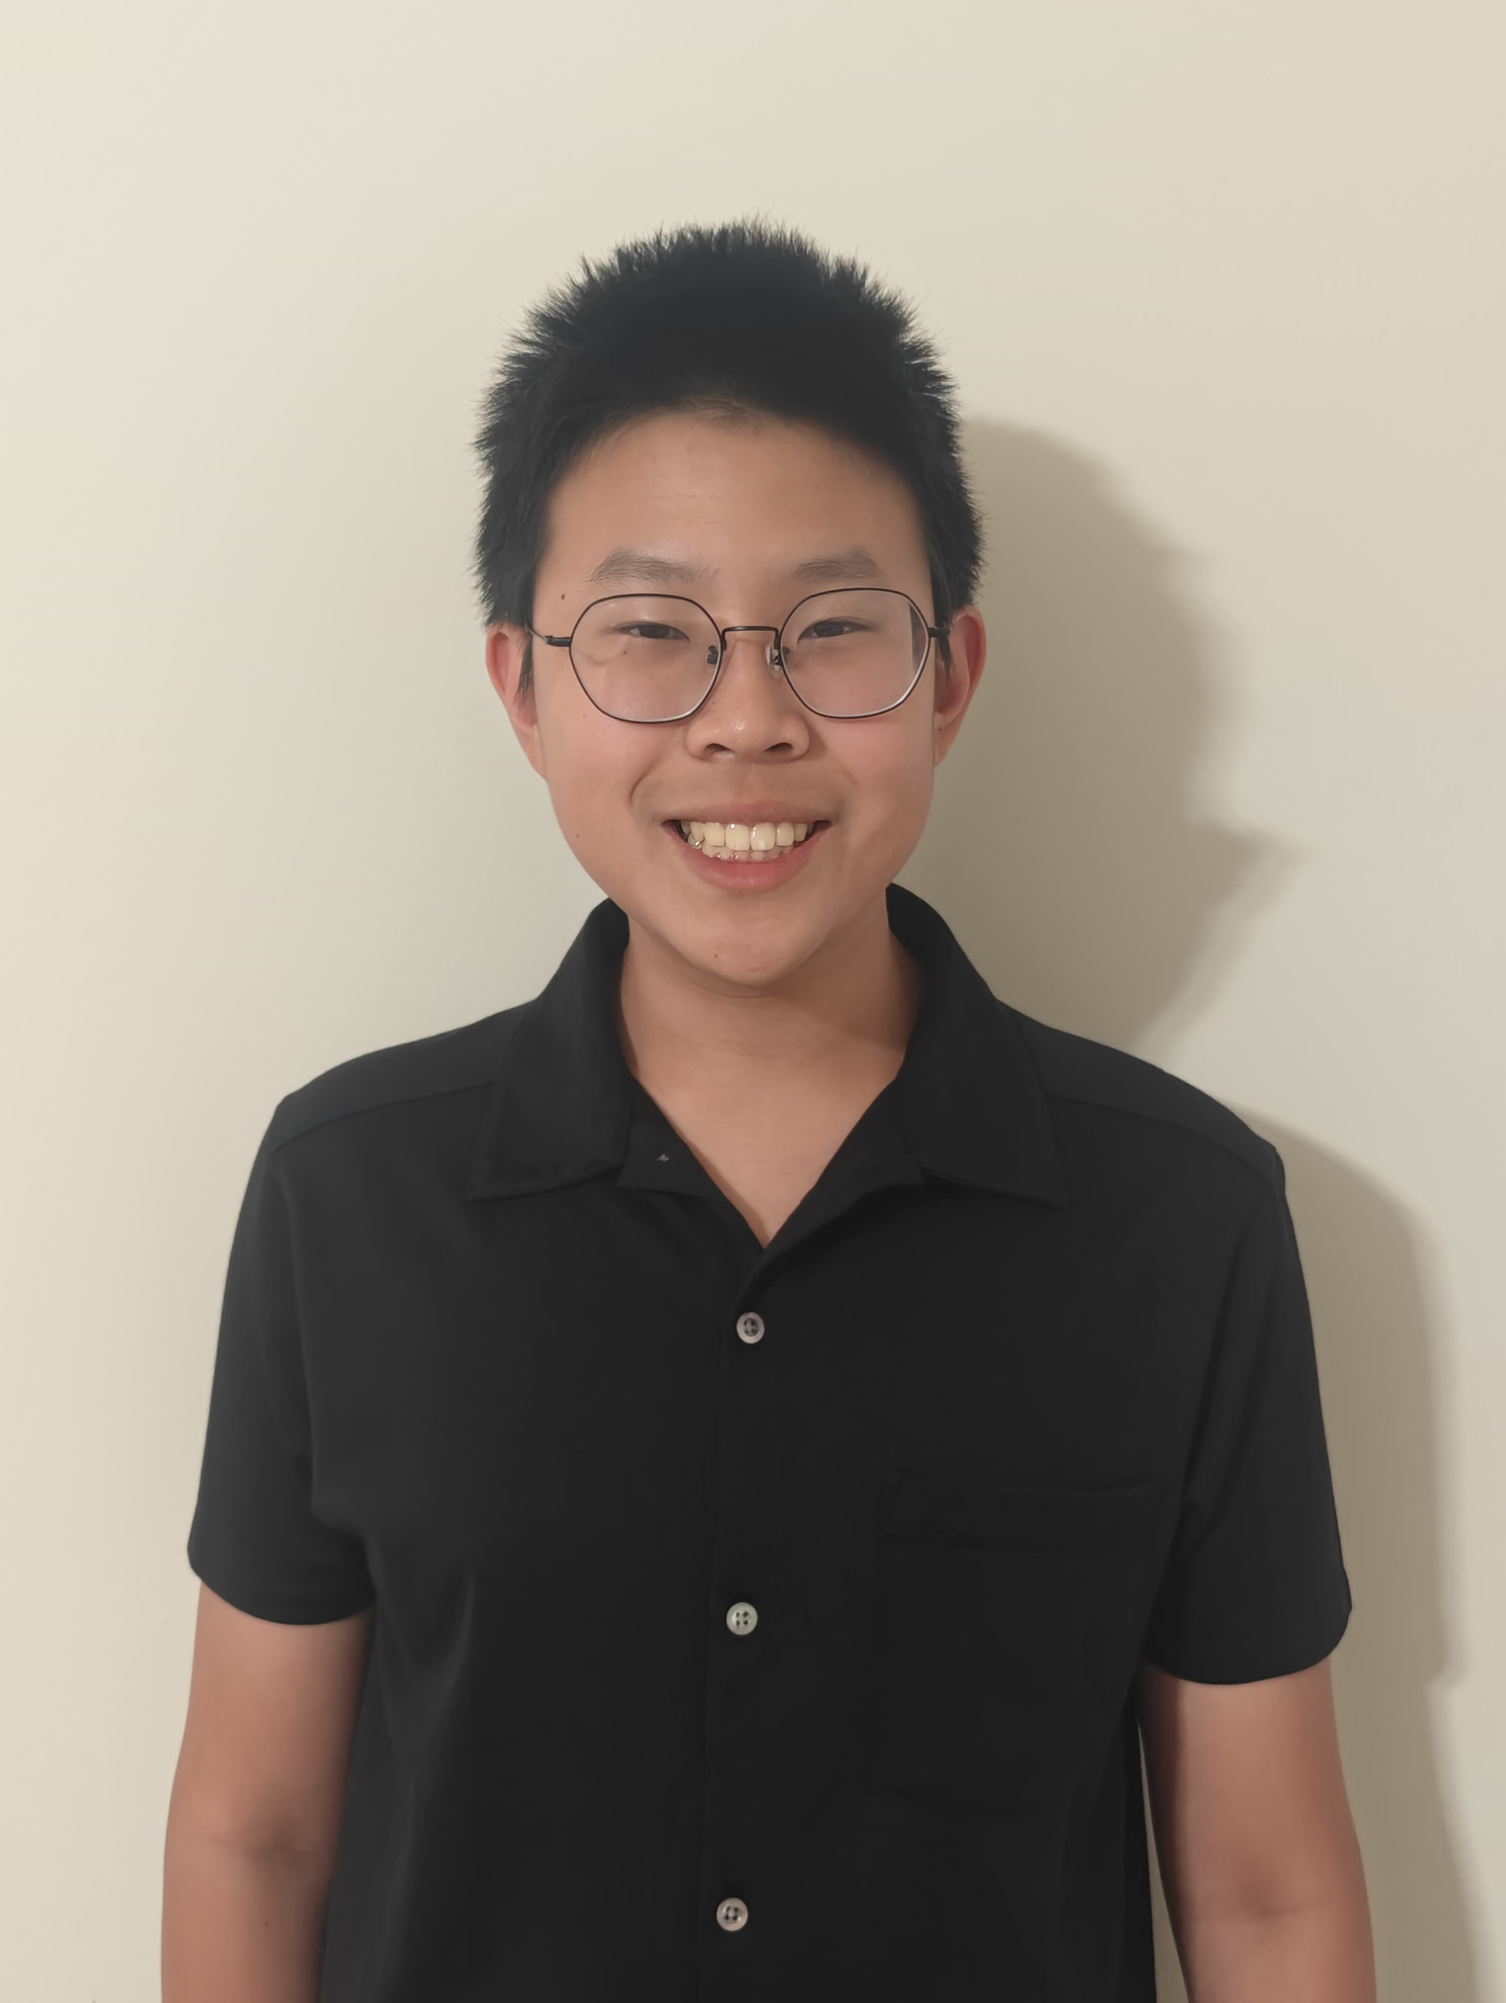
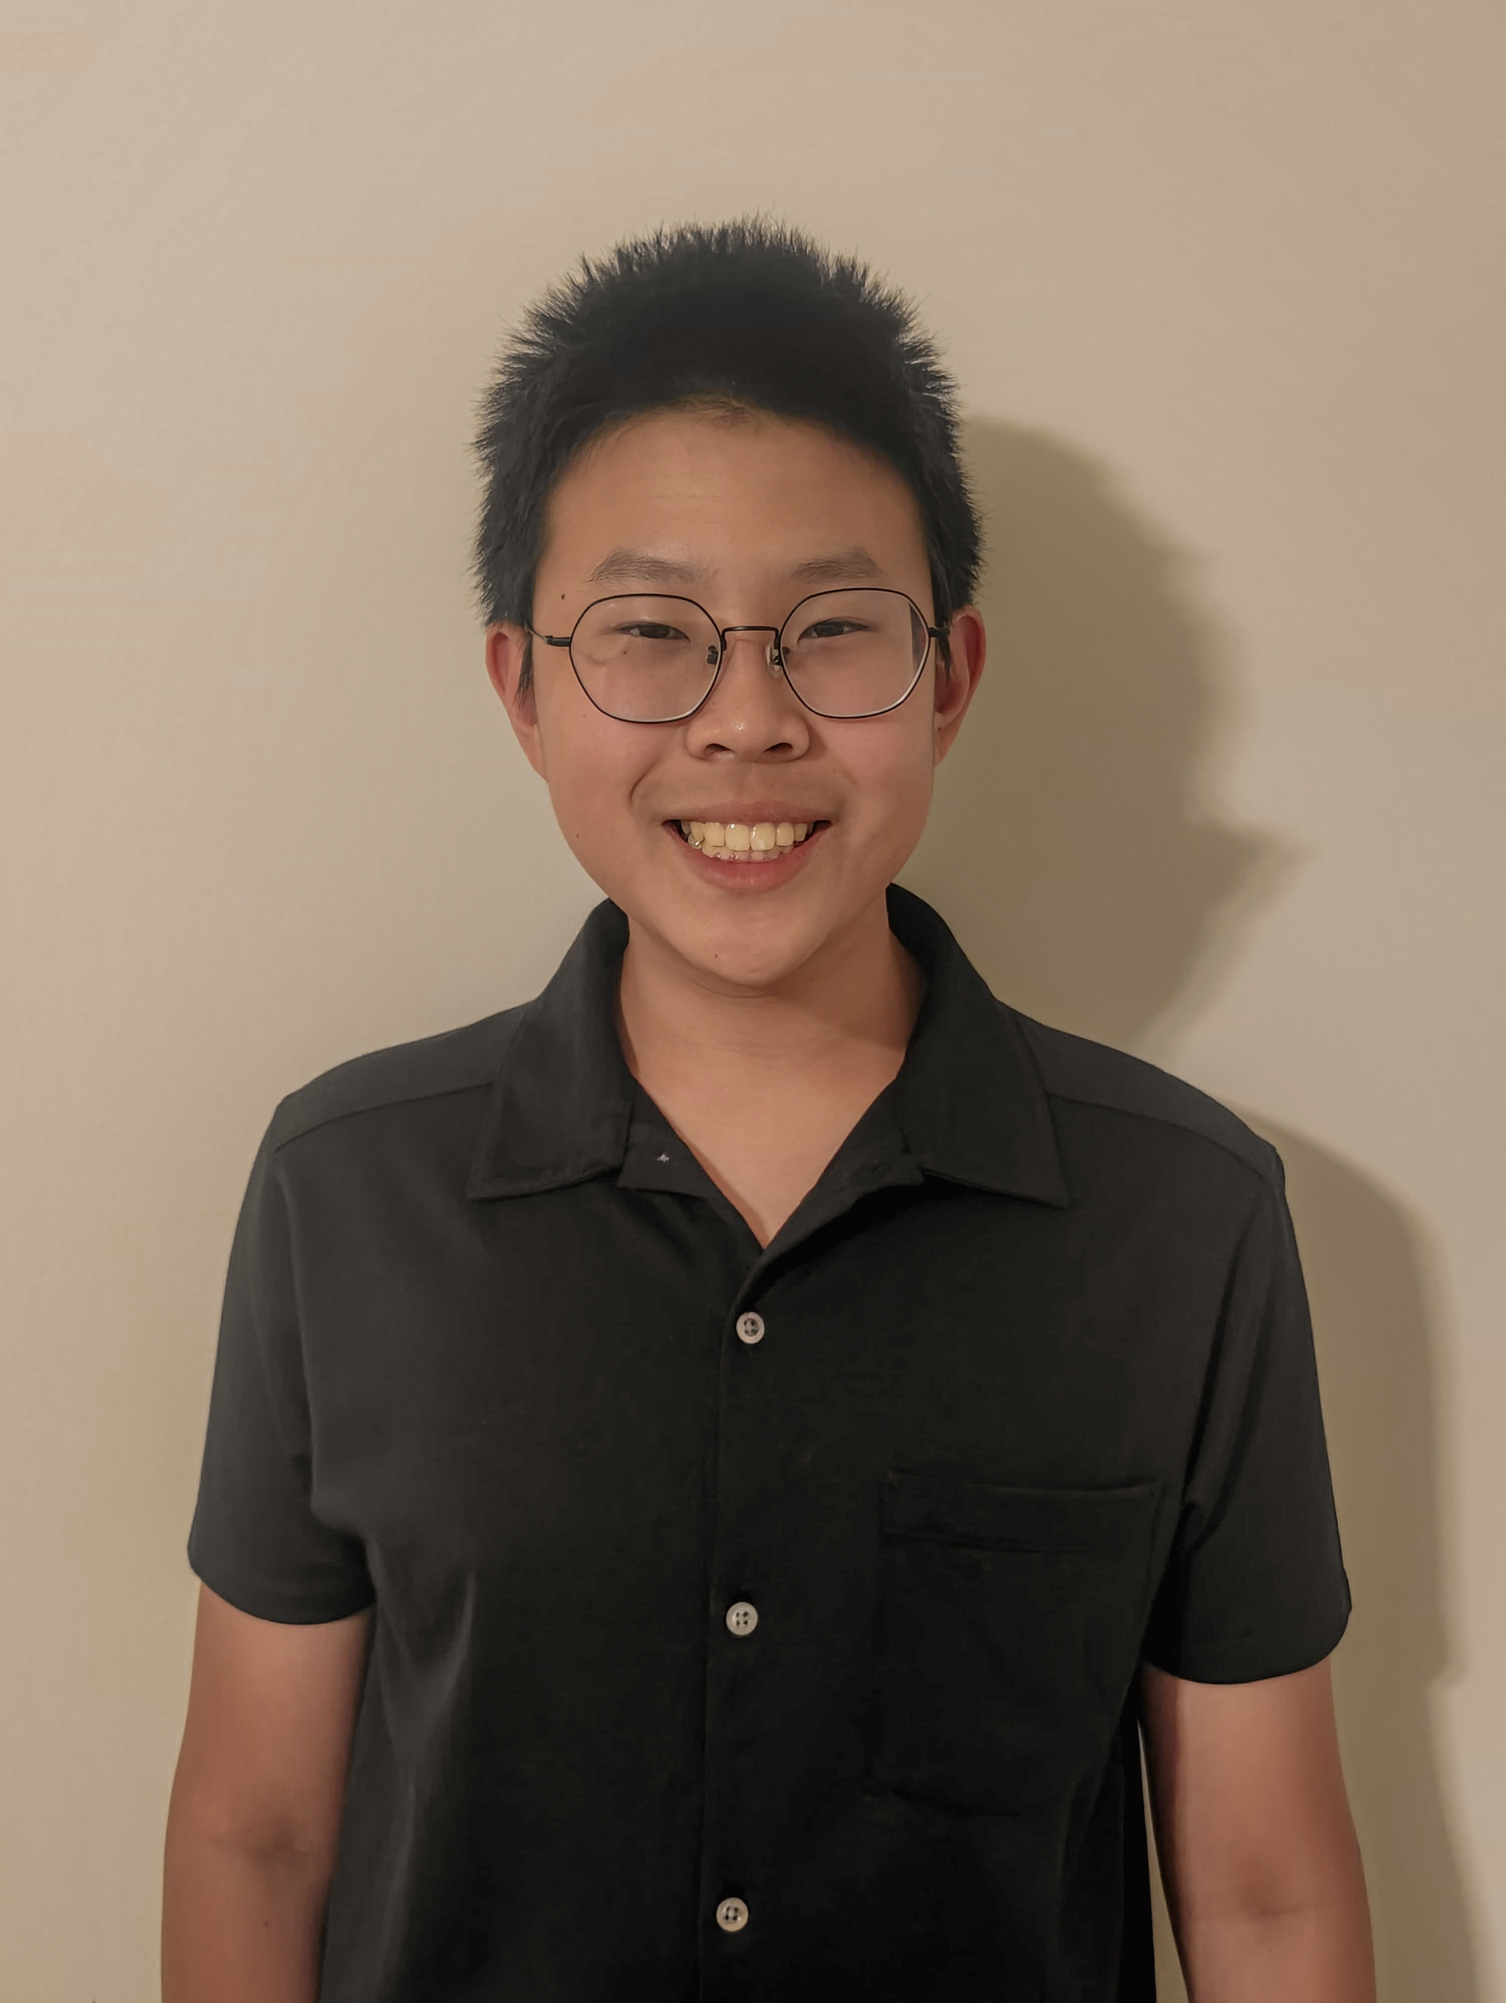
Team Member Picture update + Blog updates

diff --git a/script.js b/script.js
@@ -1,27 +1,30 @@
 // script.js (project root)
 
 // IIFE wrapper
-(function(){
-  function getScriptUrl(){
+(function () {
+  function getScriptUrl() {
     const scripts = document.getElementsByTagName('script');
-    const thisScript = document.currentScript || Array.from(scripts).find(s => (s.src || '').includes('script.js'));
-    if(!thisScript || !thisScript.src) return null;
+    const thisScript =
+      document.currentScript ||
+      Array.from(scripts).find((s) => (s.src || '').includes('script.js'));
+    if (!thisScript || !thisScript.src) return null;
     return new URL(thisScript.src);
   }
 
-  function resolveFromRoot(relPath){
+  function resolveFromRoot(relPath) {
     const scriptUrl = getScriptUrl();
-    if(!scriptUrl) return relPath;
+    if (!scriptUrl) return relPath;
     const baseDir = new URL('.', scriptUrl);
-    return new URL(relPath, baseDir).pathname;
+    // Use .href so it also works under subpaths (e.g., GitHub Pages)
+    return new URL(relPath, baseDir).href;
   }
 
-  async function injectNavbar(){
+  async function injectNavbar() {
     const placeholder = document.getElementById('navbar-placeholder');
-    if(!placeholder) return;
+    if (!placeholder) return;
 
     const scriptUrl = getScriptUrl();
-    if(!scriptUrl){
+    if (!scriptUrl) {
       console.error('script.js: could not determine script URL');
       return;
     }
@@ -30,23 +33,24 @@
 
     try {
       const res = await fetch(navbarUrl.href, { cache: 'no-cache' });
-      if(!res.ok) throw new Error(`Failed to load navbar: ${res.status} ${res.statusText}`);
+      if (!res.ok)
+        throw new Error(`Failed to load navbar: ${res.status} ${res.statusText}`);
       const html = await res.text();
       placeholder.innerHTML = html;
 
       // Rewrite relative URLs inside injected navbar so it works in subfolders
       const baseDir = new URL('.', scriptUrl);
-      placeholder.querySelectorAll('[href^="./"]').forEach(el => {
+      placeholder.querySelectorAll('[href^="./"]').forEach((el) => {
         const rel = el.getAttribute('href').replace(/^\.\//, '');
         el.setAttribute('href', new URL(rel, baseDir).href);
       });
-      placeholder.querySelectorAll('[src^="./"]').forEach(el => {
+      placeholder.querySelectorAll('[src^="./"]').forEach((el) => {
         const rel = el.getAttribute('src').replace(/^\.\//, '');
         el.setAttribute('src', new URL(rel, baseDir).href);
       });
 
       // Expose toggleMenu globally (inline onclick relies on this)
-      window.toggleMenu = function(){
+      window.toggleMenu = function () {
         const menu = placeholder.querySelector('.nav-menu');
         const burger = placeholder.querySelector('.menu-toggle');
         if (!menu) return;
@@ -61,22 +65,22 @@
 
       // Mobile dropdown tap support (in addition to desktop hover)
       enableMobileDropdown(placeholder);
-
-    } catch (err){
+    } catch (err) {
       console.error('Navbar injection error:', err);
     }
   }
 
-  function enableMobileDropdown(scope){
+  function enableMobileDropdown(scope) {
     const mm = window.matchMedia('(max-width: 768px)');
     const dropdowns = scope.querySelectorAll('.dropdown');
 
-    dropdowns.forEach(dropdown => {
+    dropdowns.forEach((dropdown) => {
       const trigger = dropdown.querySelector(':scope > a');
       if (!trigger) return;
 
       // Prevent duplicate handlers when reinjecting
-      trigger._fbnfBound && trigger.removeEventListener('click', trigger._fbnfHandler);
+      trigger._fbnfBound &&
+        trigger.removeEventListener('click', trigger._fbnfHandler);
 
       const handler = (e) => {
         if (mm.matches) {
@@ -91,29 +95,100 @@
     });
   }
 
-  async function loadCarousel(){
+  // ---- Blog "stack" carousel rotation (ONLY for #updates) ----
+  function startStackCarousel(container) {
+    if (!container) return;
+
+    // Avoid duplicate timers if this is called multiple times
+    if (container._carouselTimer) {
+      clearInterval(container._carouselTimer);
+      container._carouselTimer = null;
+    }
+
+    const mmMobile = window.matchMedia('(max-width: 768px)');
+    let paused = false;
+
+    // Optional: pause on hover (desktop)
+    container.addEventListener('mouseenter', () => (paused = true));
+    container.addEventListener('mouseleave', () => (paused = false));
+
+    const rotateOnce = () => {
+      // Do not rotate on mobile layout (where cards are listed vertically)
+      if (mmMobile.matches || paused) return;
+
+      const cards = container.querySelectorAll(':scope > .latest-card');
+      if (cards.length < 2) return;
+
+      const first = cards[0];
+      // fade out the top card, then move it to the end
+      first.classList.add('fade-out');
+
+      // Match this timeout to your .fade-out { transition: 0.3s }
+      setTimeout(() => {
+        first.classList.remove('fade-out');
+        container.appendChild(first); // nth-child() CSS restacks automatically
+      }, 300);
+    };
+
+    container._carouselTimer = setInterval(rotateOnce, 3000);
+
+    // Optional: pause when the tab is hidden to save CPU
+    const visHandler = () => {
+      if (document.hidden) {
+        paused = true;
+      } else {
+        paused = false;
+      }
+    };
+    document.addEventListener('visibilitychange', visHandler, { passive: true });
+
+    // Store cleanup if you ever need it
+    container._cleanupCarousel = () => {
+      clearInterval(container._carouselTimer);
+      document.removeEventListener('visibilitychange', visHandler);
+    };
+  }
+
+  async function loadCarousel() {
     const container = document.getElementById('updates');
-    if(!container) return;
-    try{
+    if (!container) return;
+    try {
       const feedUrl = resolveFromRoot('updates.json');
       const res = await fetch(feedUrl, { cache: 'no-cache' });
-      if(!res.ok) throw new Error(`Failed to load updates.json: ${res.status} ${res.statusText}`);
+      if (!res.ok)
+        throw new Error(
+          `Failed to load updates.json: ${res.status} ${res.statusText}`
+        );
       const items = await res.json();
-      const html = (items || []).map(item => {
-        const link = resolveFromRoot(item.link);
-        const img  = resolveFromRoot(item.image);
-        const title = item.title || '';
-        const date = item.date || '';
-        return `
-          <a href="${link}" class="latest-card">
-            <img src="${img}" alt="${title}" />
-            <div class="card-caption">${date} – ${title}</div>
-          </a>
-        `;
-      }).join('');
+
+      // If you want newest-first limited to 3, uncomment:
+      // const list = (items || [])
+      //   .slice()
+      //   .sort((a, b) => new Date(b.date) - new Date(a.date))
+      //   .slice(0, 3);
+
+      const list = items || [];
+      const html = list
+        .map((item) => {
+          const link = resolveFromRoot(item.link);
+          const img = resolveFromRoot(item.image);
+          const title = item.title || '';
+          const date = item.date || '';
+          return `
+            <a href="${link}" class="latest-card">
+              <img src="${img}" alt="${title}" />
+              <div class="card-caption">${date} – ${title}</div>
+            </a>
+          `;
+        })
+        .join('');
       container.innerHTML = html || '<div style="opacity:.7">No updates yet.</div>';
-    } catch(err){
+    } catch (err) {
       console.error('Carousel load error:', err);
+      // Keep whatever static fallback is already in the HTML
+    } finally {
+      // Start rotation whether JSON succeeded or we’re using the fallback
+      startStackCarousel(container);
     }
   }
 

diff --git a/updates/Engineering_Day.html b/updates/Engineering_Day.html
@@ -17,15 +17,6 @@
         <!-- Back Button -->
         <!-- You can customize the link below if your updates section is located elsewhere -->
         <div style="margin-bottom: 1rem;">
-          <a href="../index.html#updates" class="back-link" style="
-            display: inline-block;
-            padding: 0.4rem 0.8rem;
-            border: 1px solid #ccc;
-            border-radius: 4px;
-            font-size: 0.9rem;
-            color: black;
-            text-decoration: none;
-          ">← Back to updates</a>
         </div>
 
         <!-- Blog Title -->
@@ -39,7 +30,7 @@
         <!-- TODO: Replace 'Coach Name | Month Day, Year' with the actual author name and publication date -->
         <div style="text-align: center; margin-top: 0.5rem; display: flex; align-items: center; justify-content: center; gap: 0.5rem;">
           <img src="../Images/Headshots/Coach_Sidd.jpg" alt="Author" style="width: 36px; height: 36px; border-radius: 50%; object-fit: cover;">
-          <span style="font-size: 1rem; color: #444;">Coach Kimng | Feb 16, 2025</span>
+          <span style="font-size: 1rem; color: #444;"> | Feb 16, 2025</span>
         </div>
 
         <!-- Spacer -->
@@ -48,7 +39,9 @@
         <!-- Summary -->
         <!-- TODO: Write a concise summary of your blog post here to engage readers -->
         <p class="hero-subtext" style="text-align: center;">
-          Write a short summary of the blog post here. This is the first thing readers will see.
+          On February 16, 2025, our team had the chance to participate in Engineering Day at the Peoria Riverfront Museum. The annual event brings together 
+          engineering companies, local organizations, and student groups to showcase what they’re working on and to inspire kids and families to explore STEM.<br>
+          As one of the demonstrators, Team F.B.N.F. was proud to bring our FTC robot to the floor, letting visitors take control, ask questions, and learn firsthand what FIRST robotics is all about.
         </p>
       </div>
 
@@ -63,10 +56,12 @@
   <!-- TODO: Replace the placeholder paragraphs below with the full content of your blog post -->
   <section style="max-width: 700px; margin: 2rem auto; font-size: 1rem; line-height: 1.6;">
     <p>
-      Start writing your blog post content here. You can break it into multiple paragraphs like this.
-    </p>
-    <p>
-      Add as much detail as you like. This section supports normal HTML text formatting.
+      We brought our 2024–2025 Into the Deep robot and set up a space where visitors could see it up close and even take the controls. Throughout the day, people of all ages had the chance to drive the 
+      robot while we explained the different mechanisms and systems that make it work. It was a great way to introduce the community to robotics and to share what FIRST is all about.<br>
+
+      Beyond just driving the robot, we talked with families about how FTC competitions are structured. We explained how teams design, build, and program their robots, and how matches include both autonomous 
+      and driver-controlled periods. Many parents were interested in getting their kids involved, which gave us the chance to talk about the different levels of FIRST — from LEGO League (FLL) for younger kids to 
+      Tech Challenge (FTC) and Robotics Competition (FRC) for high school students.<br>
     </p>
   </section>
 </body>

diff --git a/updates/Meet_4.html b/updates/Meet_4.html
@@ -15,25 +15,16 @@
     <div class="hero-content" style="align-items: flex-start;">
       <div class="hero-intro">
         <div style="margin-bottom: 1rem;">
-          <a href="../index.html#updates" class="back-link" style="
-            display: inline-block;
-            padding: 0.4rem 0.8rem;
-            border: 1px solid #ccc;
-            border-radius: 4px;
-            font-size: 0.9rem;
-            color: black;
-            text-decoration: none;
-          ">← Back to updates</a>
         </div>
         <h1 class="hero-heading" style="text-align: center;">
           <span class="highlight">Meet 4!</span>
         </h1>
         <div style="text-align: center; margin-top: 0.5rem; display: flex; align-items: center; justify-content: center; gap: 0.5rem;" >
-          <img src="../Images/Headshots/Coach_Sidd.jpg" alt="Author" style="width: 36px; height: 36px; border-radius: 50%; object-fit: cover;">
-          <span style="font-size: 1rem; color: #444;"> Coach Sidd | February 8, 2025</span>
+          <img src="../Images/Headshots/Olivia.png" alt="Author" style="width: 36px; height: 36px; border-radius: 50%; object-fit: cover;">
+          <span style="font-size: 1rem; color: #444;"> | February 8, 2025</span>
         </div>
         <div style="height: 2rem;"></div>
-        <p class="hero-subtext" style="color:black">
+        <p class="hero-subtext" style="margin-left:30px; margin-right: 30px;text-align: center;">
           Today we participated in our fourth meet of the season, showcasing major improvements in our autonomous and driver-controlled performance. Our pit crew worked efficiently through technical challenges, and our scouters collected valuable data on alliance strategies.
         </p>
       </div>
@@ -44,9 +35,7 @@
   </main>
 
   <section style="max-width: 700px; margin: 2rem auto; font-size: 1rem; line-height: 1.6;">
-    <p>Lorem ipsum dolor sit amet, consectetur adipiscing elit. Nulla vel efficitur metus. Donec dapibus purus vitae justo feugiat, vitae tincidunt sapien imperdiet. Vivamus nec diam sit amet odio fermentum dictum. Sed consequat dignissim risus, nec iaculis justo vulputate sit amet.</p>
-    <p>Praesent sed posuere est. Sed sed odio a est tincidunt ultricies. Aliquam erat volutpat. Duis ac risus viverra, lobortis lectus in, rutrum sapien. Suspendisse potenti. Aenean fringilla magna id sapien volutpat, vel elementum magna vestibulum.</p>
-    <p>Morbi tincidunt vestibulum erat. Vestibulum congue vitae purus nec posuere. Donec vestibulum congue suscipit. Integer tincidunt justo nec augue fermentum, vel tincidunt sem placerat.</p>
+    <p>Regionals was full of great matches! I remember feeling the rush of excitement as we advanced to the third place alliance position. As the 5th in place for selection, we paired up with our alliance captain Sherrard TiGEARS #13594. We were able to showcase our specimen ability in both auto and the final matches. We left with the Motivate Award and a good end to the season!</p>
 
   </section>
 </body>

diff --git a/updates/CAD_Workshop.html b/updates/CAD_Workshop.html
@@ -17,7 +17,7 @@
         <!-- Blog Title -->
         <!-- TODO: Replace 'Your Blog Title Here' with your actual blog post title -->
         <h1 class="hero-heading" style="text-align: center;">
-          <span class="highlight">Building Skills, Sparking Curiosity: A Summer of Onshape</span>
+          <span class="highlight">Introduction to CAD: Summer</span>
         </h1>
 
         <!-- Author and Date -->
@@ -53,7 +53,6 @@
     <section style="max-width: 800px; margin: 2rem auto; font-size: 1rem; line-height: 1.6;">
 
       <div style="overflow: hidden; margin-bottom: 1.5rem;">
-        <img src="../Images/Blog_Images/CAD_Workshop_2025/LearningOnshape.jpg" alt="Day1_Intro" style="width: 200px; float: right; margin-right: 1rem; border-radius: 8px; object-fit: cover;" />
         <p class="Introducing_CAD">
             During the summer of 2025, F.B.N.F. hosted a three-day CAD workshop to share its knowledge of Onshape, 
           a cloud-based 3D design software. We wanted to give younger students the chance to experience how ideas 

diff --git a/Team/Team_Members.html b/Team/Team_Members.html
@@ -12,17 +12,6 @@
 <body>
   <!-- Shared navbar will be injected here -->
   <div id="navbar-placeholder"></div>
-
-  <div style="margin: 1rem 2rem;">
-    <a href="../index.html#updates" class="back-link" style="
-      display: inline-block;
-      padding: 0.4rem 0.8rem;
-      border: 1px solid #ccc;
-      border-radius: 4px;
-      font-size: 0.9rem;
-      color: black;
-      text-decoration: none;
-    ">← Back to updates</a>
   </div>
 
   <main>
@@ -46,7 +35,7 @@
         <p>Programmer</p>
       </div>
       <div class="team-member">
-        <img src="../Images/Headshots/Keaton.png" alt="Keaton">
+        <img src="../Images/Headshots/Keaton.jpg" alt="Keaton">
         <h3>Keaton</h3>
         <p>Mechanical | Driver</p>
       </div>

diff --git a/style.css b/style.css
@@ -100,6 +100,11 @@ body {
   height: auto;
   object-fit: contain;
 }
+.sponsor-featured{
+  width: 100%;
+  height: auto;
+  max-height: 200px;
+}
 
   .hero-latest {
     flex: 1 1 300px;
